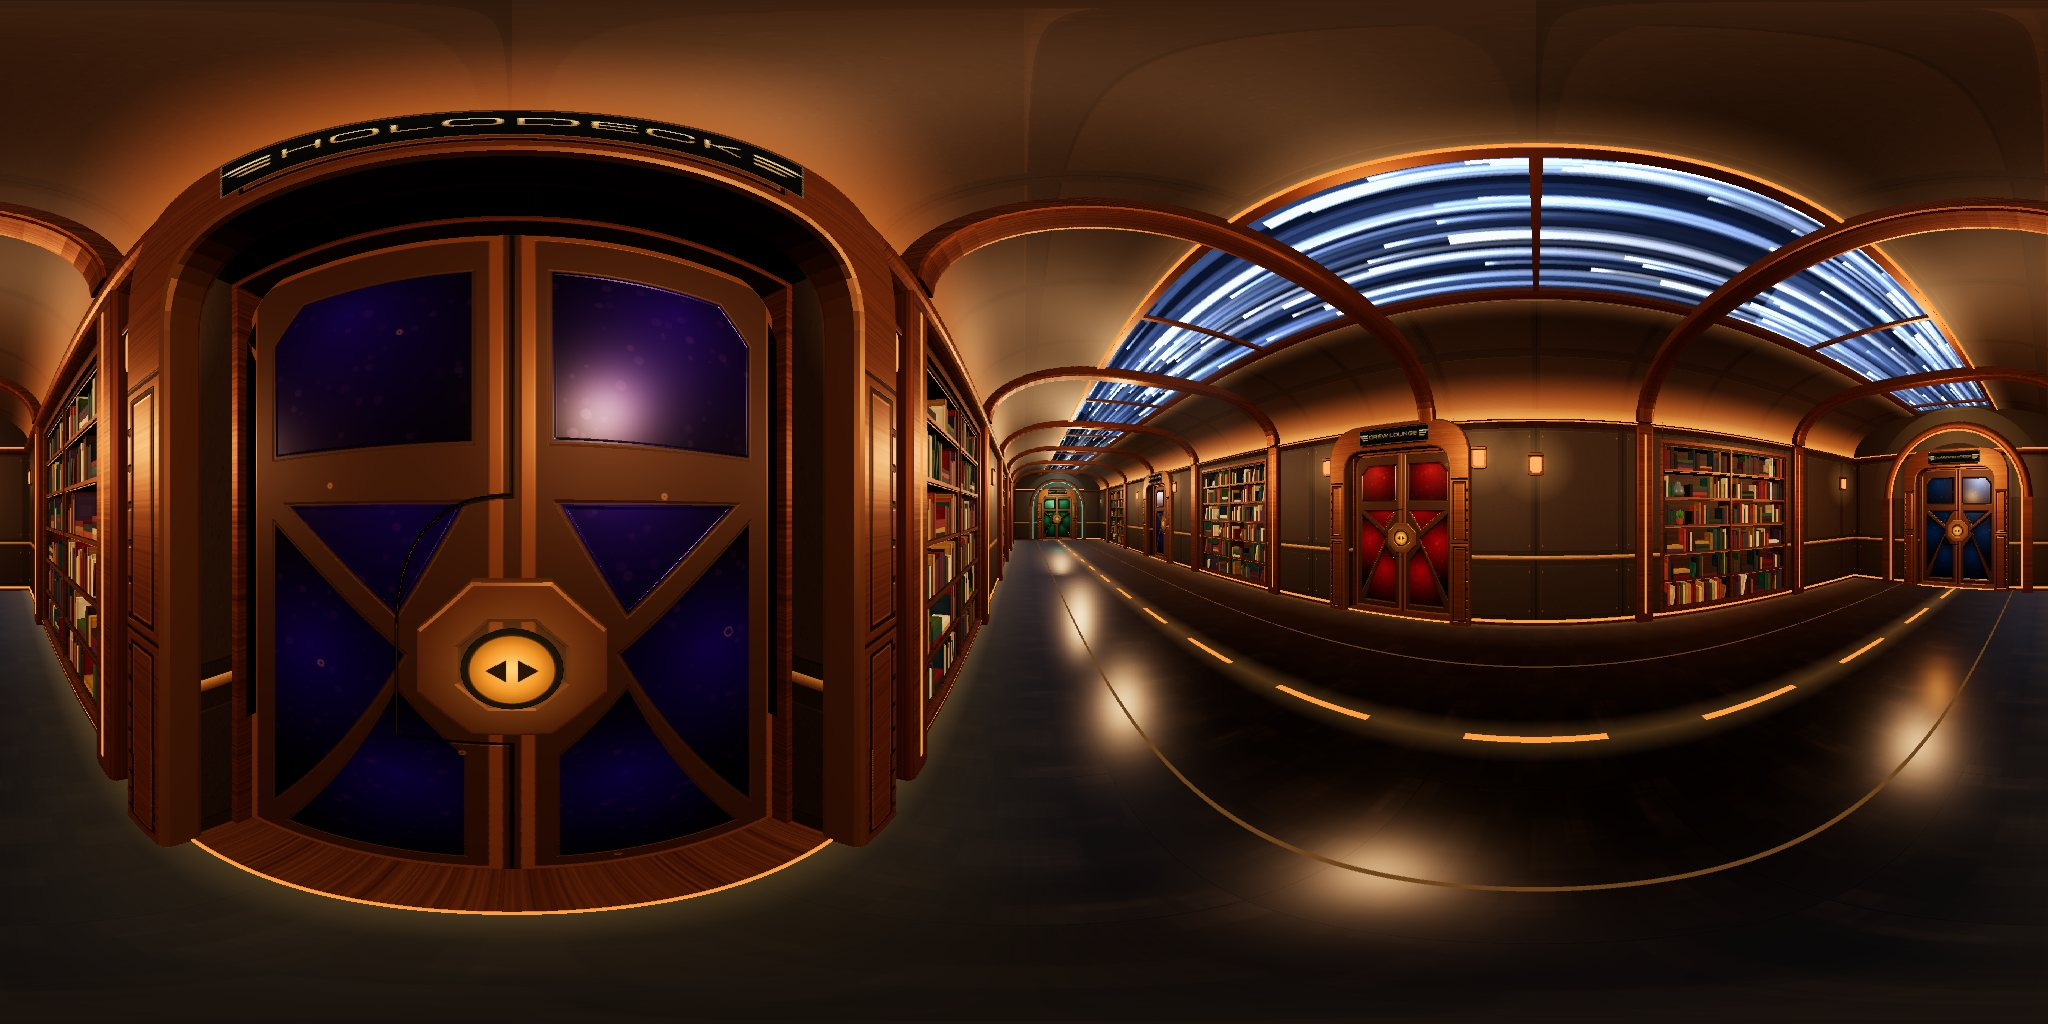
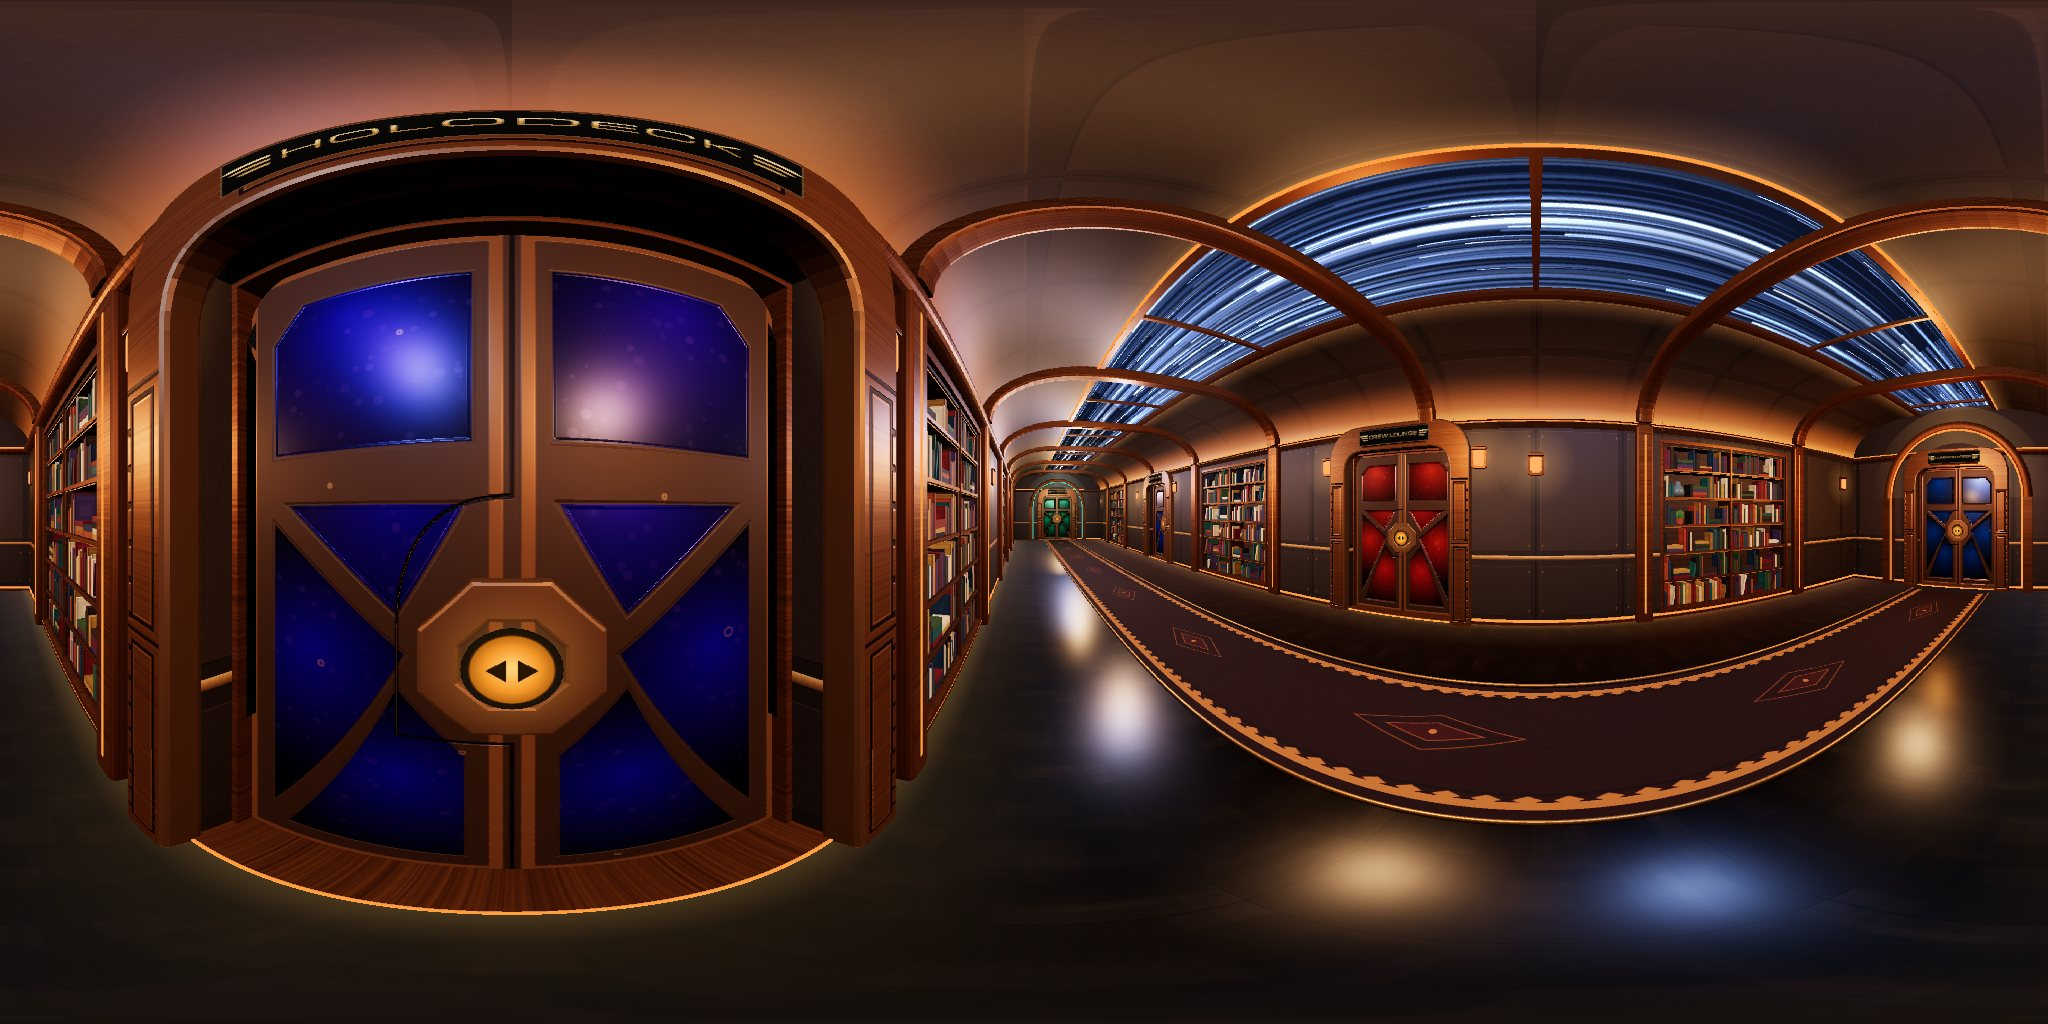
Corridor runner instead of road line; flickering blue light spill from light speed in corridor, Bridge, Library, Lounge; portals re-shot
Claude-Session: https://claude.ai/code/session_015swmRW9rk9HZt8JyLRwsXT

diff --git a/index.html b/index.html
@@ -15,11 +15,11 @@
   <meta property="og:image:height" content="630">
   <meta property="og:image:alt" content="The bronze SS Wayfarer in orbit above a sunlit planet.">
   <meta name="twitter:card" content="summary_large_image">
-  <script src="textures.js?v=20261124e"></script>
+  <script src="textures.js?v=20261124f"></script>
   <script src="https://aframe.io/releases/1.5.0/aframe.min.js"></script>
-  <script src="mobile.js?v=20261124e"></script>
-  <script src="door.js?v=20261124e"></script>
-  <script src="hyperspace.js?v=20261124e"></script>
+  <script src="mobile.js?v=20261124f"></script>
+  <script src="door.js?v=20261124f"></script>
+  <script src="hyperspace.js?v=20261124f"></script>
   <style>
     * { margin: 0; padding: 0; box-sizing: border-box; }
     body { overflow: hidden; background: #000; }
@@ -514,21 +514,28 @@
       [-9, -3, 3, 9].forEach(function (z) { var m = new THREE.Mesh(new THREE.PlaneGeometry(1.5, 3.6), sm.clone()); m.position.set(0, 1.9, z); m.rotation.x = -0.18; root.add(m); state.shafts.push(m); });
     }
 
-    // ── polished deck, dashed amber centre line, edge glow ──
+    // ── polished deck, woven runner with brass rods, edge glow ──
     function buildFloor(root, M, aniso) {
       var fm = new THREE.MeshStandardMaterial({ map: deckTexture(), roughness: 0.3, metalness: 0.55, color: 0xa89e92 });
       fm.map.repeat.set(5, 25); fm.map.anisotropy = aniso;
       var fl = new THREE.Mesh(new THREE.PlaneGeometry(5, 25), fm); fl.rotation.x = -Math.PI / 2; root.add(fl); state.floorMat = fm;
-      var dashes = new THREE.InstancedMesh(new THREE.PlaneGeometry(0.07, 0.85), M.amber, 17), dm = new THREE.Object3D(), n = 0;
-      for (var z = -12; z <= 12.01; z += 1.5) { dm.position.set(0, 0.004, z); dm.rotation.set(-Math.PI / 2, 0, 0); dm.updateMatrix(); dashes.setMatrixAt(n++, dm.matrix); }
-      dashes.count = n; root.add(dashes);
       var add = function (tex, col, op) { return new THREE.MeshBasicMaterial({ map: tex, color: col, transparent: true, opacity: op, blending: THREE.AdditiveBlending, depthWrite: false, fog: false }); };
-      var cg = new THREE.Mesh(new THREE.PlaneGeometry(0.5, 25), add(rampTexture(true), 0xff8a30, 0.28)); cg.rotation.x = -Math.PI / 2; cg.position.y = 0.003; root.add(cg);
+      // a long woven runner down the middle instead of a dashed "road" line (user, Nov 24: "why is the hallway a road")
+      var rc = cv(256, 512), rx = rc.getContext('2d'), rr2 = rng(41);
+      rx.fillStyle = '#2a0f0c'; rx.fillRect(0, 0, 256, 512);
+      for (var k = 0; k < 6000; k++) { rx.fillStyle = 'rgba(' + (rr2() < 0.5 ? '0,0,0' : '200,120,90') + ',' + (0.05 + rr2() * 0.06) + ')'; rx.fillRect(rr2() * 256, rr2() * 512, 1, 2 + rr2() * 3); }   // wool
+      rx.strokeStyle = '#b8823e'; rx.lineWidth = 10; rx.strokeRect(18, -10, 220, 540); rx.strokeStyle = '#1c0a08'; rx.lineWidth = 4; rx.strokeRect(34, -10, 188, 540);
+      rx.fillStyle = '#b8823e'; for (var y = 0; y < 512; y += 32) { rx.beginPath(); rx.moveTo(26, y + 4); rx.lineTo(32, y + 16); rx.lineTo(26, y + 28); rx.lineTo(20, y + 16); rx.fill(); rx.beginPath(); rx.moveTo(230, y + 4); rx.lineTo(236, y + 16); rx.lineTo(230, y + 28); rx.lineTo(224, y + 16); rx.fill(); }
+      rx.strokeStyle = 'rgba(190,130,62,0.6)'; rx.lineWidth = 2; rx.beginPath(); rx.moveTo(128, 150); rx.lineTo(166, 256); rx.lineTo(128, 362); rx.lineTo(90, 256); rx.closePath(); rx.stroke();      // a medallion per repeat
+      rx.beginPath(); rx.moveTo(128, 196); rx.lineTo(148, 256); rx.lineTo(128, 316); rx.lineTo(108, 256); rx.closePath(); rx.fillStyle = 'rgba(70,24,18,0.9)'; rx.fill(); rx.stroke();
+      rx.fillStyle = '#b8823e'; rx.beginPath(); rx.arc(128, 256, 5, 0, 7); rx.fill();
+      var rt = mkTex(rc); rt.repeat.set(1, 9); rt.anisotropy = aniso;
+      var runner = new THREE.Mesh(new THREE.PlaneGeometry(1.5, 24.2, 1, 24), new THREE.MeshStandardMaterial({ map: rt, roughness: 0.95, metalness: 0, color: 0xb8a8a0 }));
+      runner.rotation.x = -Math.PI / 2; runner.position.y = 0.006; root.add(runner);
+      var rodM = new THREE.MeshStandardMaterial({ color: 0xc08a48, roughness: 0.3, metalness: 0.9 });
+      [-0.78, 0.78].forEach(function (xx) { var rod = new THREE.Mesh(new THREE.CylinderGeometry(0.018, 0.018, 24.2, 8), rodM); rod.rotation.x = Math.PI / 2; rod.position.set(xx, 0.018, 0); root.add(rod); });
       var edge = rampTexture(false);
       [-1, 1].forEach(function (s) { var m = new THREE.Mesh(new THREE.PlaneGeometry(0.8, 25), add(edge, 0xff9a40, 0.32)); m.rotation.x = -Math.PI / 2; m.rotation.z = s > 0 ? Math.PI : 0; m.position.set(s * (2.5 - 0.4), 0.003, 0); root.add(m); });
-      // thin bronze inlay lines, as in the reference deck
-      var brz = new THREE.MeshBasicMaterial({ color: 0x6a4a26, fog: false });
-      [-1.2, 1.2].forEach(function (xx) { var s = new THREE.Mesh(new THREE.PlaneGeometry(0.025, 25), brz); s.rotation.x = -Math.PI / 2; s.position.set(xx, 0.004, 0); root.add(s); });
     }
 
     // ── glowing arch portals around the two end doors (amber: Bridge, teal: Library) ──
@@ -582,7 +589,8 @@
 
     // ───────────────────────────── stars (seen through the skylight) ─────────────────────────────
     // ── light speed overhead (shared hyperspace.js): the ship flies toward the Bridge (+Z), streaks rush aft ──
-    function buildSky(root) { state.hyper = window.WAYFARER.hyperspace(root, { fwd: 1, arc: [-70, 70], count: MOB ? 900 : 1500, minR: 16, maxR: 190, tunnel: 0.6, width: 0.55, bright: 0.9 }); }
+    function buildSky(root) { state.hyper = window.WAYFARER.hyperspace(root, { fwd: 1, arc: [-70, 70], count: MOB ? 900 : 1500, minR: 16, maxR: 190, tunnel: 0.6, width: 0.55, bright: 0.9,
+      spill: [{ p: [0, 3.3, -7], i: 1.6, d: 10 }, { p: [0, 3.3, 0], i: 1.6, d: 10 }, { p: [0, 3.3, 7], i: 1.6, d: 10 }] }); }   // blue glare on the deck/walls
 
     // ───────────────────────────── per-frame: door animation, collision, entry ─────────────────────────────
     var navigating = false, fade = document.getElementById('wf-fade');

diff --git a/lounge.html b/lounge.html
@@ -15,13 +15,13 @@
   <meta property="og:image:height" content="630">
   <meta property="og:image:alt" content="The bronze SS Wayfarer in orbit above a sunlit planet.">
   <meta name="twitter:card" content="summary_large_image">
-  <script src="textures.js?v=20261124e"></script>
+  <script src="textures.js?v=20261124f"></script>
   <script src="https://aframe.io/releases/1.5.0/aframe.min.js"></script>
-  <script src="mobile.js?v=20261124e"></script>
-  <script src="door.js?v=20261124e"></script>
-  <script src="props.js?v=20261124e"></script>
-  <script src="hyperspace.js?v=20261124e"></script>
-  <script src="cats.js?v=20261124e"></script>
+  <script src="mobile.js?v=20261124f"></script>
+  <script src="door.js?v=20261124f"></script>
+  <script src="props.js?v=20261124f"></script>
+  <script src="hyperspace.js?v=20261124f"></script>
+  <script src="cats.js?v=20261124f"></script>
   <style>
     * { margin: 0; padding: 0; box-sizing: border-box; }
     body { overflow: hidden; background: #000; }
@@ -161,7 +161,7 @@
     material="color: #2a6ad0; emissive: #4a8aff; emissiveIntensity: 1.6">
   </a-box>
   <a-text value="[ TAP SCREEN TO BROWSE ]" align="center" position="0 1.95 -7.51" color="#9fc4ff" width="5" letter-spacing="4"></a-text>
-  <a-light type="point" position="0 2.9 -6.4" color="#8ab4ff" intensity="1.0" distance="9" decay="2"></a-light>
+  <a-light id="win-spill" type="point" position="0 2.9 -6.4" color="#8ab4ff" intensity="1.2" distance="11" decay="1.6"></a-light>
   <!-- soft warm fill over seating + rug (independent of the TV, so a dark frame still reads) -->
   <a-light id="fill-seat" type="point" position="0 3.4 1.2" color="#ffc890" intensity="1.1" distance="11" decay="1.2"></a-light>
   <a-light id="fill-rug" type="point" position="0.5 3.2 -3.8" color="#ffc080" intensity="1.0" distance="10" decay="1.2"></a-light>
@@ -456,7 +456,7 @@
       var wr = new THREE.Mesh(new THREE.TorusGeometry(3.15, 0.14, 12, 96), bronze); wr.position.set(0, 2.6, zc + 0.05); g.add(wr);
       // light speed outside: a frame turned so the ship's forward (+X in this room) is the streams' axis
       var outside = new THREE.Group(); outside.rotation.y = Math.PI / 2; sc.object3D.add(outside);
-      var hs = window.WAYFARER.hyperspace(outside, { fwd: 1, arc: [-180, 180], count: (window.WAYFARER && window.WAYFARER.mobile) ? 900 : 1500, minR: 12, maxR: 190, tunnel: 0.6, width: 0.55, bright: 0.9, seed: 55, center: [0, 2.6] });
+      var hs = window.WAYFARER.hyperspace(outside, { fwd: 1, arc: [-180, 180], count: (window.WAYFARER && window.WAYFARER.mobile) ? 900 : 1500, minR: 12, maxR: 190, tunnel: 0.6, width: 0.55, bright: 0.9, seed: 55, center: [0, 2.6], lights: (function () { var e = document.getElementById('win-spill'), l = e && e.getObject3D('light'); return l ? [l] : []; }()) });
       AFRAME.registerComponent('wf-lounge-hyper', { tick: function (t) { hs.update(t / 1000); } });
       sc.setAttribute('wf-lounge-hyper', '');
     }

diff --git a/bridge.html b/bridge.html
@@ -16,10 +16,10 @@
   <meta property="og:image:alt" content="The bronze SS Wayfarer in orbit above a sunlit planet.">
   <meta name="twitter:card" content="summary_large_image">
   <script src="https://aframe.io/releases/1.5.0/aframe.min.js"></script>
-  <script src="mobile.js?v=20261124e"></script>
-  <script src="door.js?v=20261124e"></script>
-  <script src="hyperspace.js?v=20261124e"></script>
-  <script src="lcars.js?v=20261124e"></script>
+  <script src="mobile.js?v=20261124f"></script>
+  <script src="door.js?v=20261124f"></script>
+  <script src="hyperspace.js?v=20261124f"></script>
+  <script src="lcars.js?v=20261124f"></script>
   <style>
     * { margin: 0; padding: 0; box-sizing: border-box; }
     body { overflow: hidden; background: #000; }
@@ -220,11 +220,11 @@
       // ── lights ──
       root.add(new THREE.HemisphereLight(0xffd8b0, 0x2a1c12, 0.75));
       for (var i = 0; i < 4; i++) { var la = i / 4 * Math.PI * 2 + Math.PI / 4, l = new THREE.PointLight(0xffc08a, 1.15, 10, 1.4); l.position.copy(polar(la, 3.6, WALL_H - 0.5)); root.add(l); }
-      var win = new THREE.PointLight(0x7aa6ff, 0.9, 11, 1.5); win.position.set(0, 2.4, -6.4); root.add(win);
+      var win = new THREE.PointLight(0x7aa6ff, 1.2, 12, 1.4); win.position.set(0, 2.4, -6.4); root.add(win);
       [-1, 1].forEach(function (s) { var tl = new THREE.PointLight(0x3fd8d0, 0.6, 4.5, 2); tl.position.copy(polar(s * 0.7, 5.3, 1.3)); root.add(tl); });
 
       // light speed through the window: the ship flies bow-first (−Z here), streaks rush toward you
-      hyper = window.WAYFARER.hyperspace(root, { fwd: -1, arc: [-180, 180], count: MOB ? 1100 : 1900, core: true, seed: 101, minR: 14, center: [0, 2.3] });
+      hyper = window.WAYFARER.hyperspace(root, { fwd: -1, arc: [-180, 180], count: MOB ? 1100 : 1900, core: true, seed: 101, minR: 14, center: [0, 2.3], lights: [win], spill: [{ p: [-4.5, 2.6, -4.5], i: 0.6, d: 9 }, { p: [4.5, 2.6, -4.5], i: 0.6, d: 9 }] });
 
       bake();
     }

diff --git a/hyperspace.js b/hyperspace.js
@@ -66,9 +66,19 @@
       coreS = new THREE.Sprite(new THREE.SpriteMaterial({ map: new THREE.CanvasTexture(cc), color: 0xffffff, blending: THREE.AdditiveBlending, depthWrite: false, fog: false, toneMapped: false, transparent: true }));
       coreS.position.set(cx0, cy0, fwd * 600); coreS.scale.set(240, 240, 1); coreS.renderOrder = -8; root.add(coreS);
     }
+    // light spill: the streaks throw a cool, restless blue glow onto the room (floor gloss, walls).
+    // spill: [{ p: [x,y,z], i: intensity, d: distance }] creates point lights in (o.spillRoot || root); lights: existing ones to animate
+    var spills = [];
+    (o.spill || []).forEach(function (q) { var l = new THREE.PointLight(0x8fb2ff, q.i, q.d || 12, q.decay == null ? 1.3 : q.decay); l.position.set(q.p[0], q.p[1], q.p[2]); (o.spillRoot || root).add(l); spills.push([l, q.i]); });
+    (o.lights || []).forEach(function (l) { spills.push([l, l.intensity]); });
+    function hsh(n) { n = Math.sin(n * 91.7) * 43758.5; return n - Math.floor(n); }
     return {
-      update: function (ts) { sm.uniforms.uT.value = ts; tt.offset.y = (ts * 0.9) % 1; if (coreS) coreS.material.opacity = 0.85 + 0.15 * Math.sin(ts * 3.1); },
-      objects: [streaks, tun, haze].concat(coreS ? [coreS] : [])
+      update: function (ts) {
+        if (spills.length) { var k = Math.floor(ts * 4), f = ts * 4 - k, burst = hsh(k) * (1 - f) + hsh(k + 1) * f;   // smooth random surges as bright streaks pass
+          var m = 0.72 + 0.1 * Math.sin(ts * 7.3) + 0.06 * Math.sin(ts * 13.7 + 1.3) + 0.35 * burst * burst;
+          spills.forEach(function (e, j) { e[0].intensity = e[1] * (m + 0.05 * Math.sin(ts * 9.1 + j * 2.1)); }); }
+        sm.uniforms.uT.value = ts; tt.offset.y = (ts * 0.9) % 1; if (coreS) coreS.material.opacity = 0.85 + 0.15 * Math.sin(ts * 3.1); },
+      objects: [streaks, tun, haze].concat(coreS ? [coreS] : []), spills: spills
     };
   };
 }());

diff --git a/library.html b/library.html
@@ -18,13 +18,13 @@
   <meta name="theme-color" content="#000208">
   <meta name="apple-mobile-web-app-capable" content="yes">
   <meta name="mobile-web-app-capable" content="yes">
-  <script src="textures.js?v=20261124e"></script>
+  <script src="textures.js?v=20261124f"></script>
   <script src="https://aframe.io/releases/1.5.0/aframe.min.js"></script>
-  <script src="brain.js?v=20261124e"></script>
-  <script src="mobile.js?v=20261124e"></script>
-  <script src="door.js?v=20261124e"></script>
-  <script src="props.js?v=20261124e"></script>
-  <script src="hyperspace.js?v=20261124e"></script>
+  <script src="brain.js?v=20261124f"></script>
+  <script src="mobile.js?v=20261124f"></script>
+  <script src="door.js?v=20261124f"></script>
+  <script src="props.js?v=20261124f"></script>
+  <script src="hyperspace.js?v=20261124f"></script>
   <style>
     * { margin: 0; padding: 0; box-sizing: border-box; }
     body { overflow: hidden; background: #000; }
@@ -572,7 +572,8 @@
       const barL = new THREE.Mesh(new THREE.BoxGeometry(15.0, 0.012, 0.012), amber); barL.position.set(0, Y0 - 0.015, 0.03); root.add(barL);
 
       // light speed beyond the dome
-      const hs = window.WAYFARER.hyperspace(scene.object3D, { fwd: 1, arc: [-75, 75], count: MOB ? 900 : 1500, minR: 16, maxR: 190, tunnel: 0.6, width: 0.55, bright: 0.9, seed: 33 });
+      const hs = window.WAYFARER.hyperspace(scene.object3D, { fwd: 1, arc: [-75, 75], count: MOB ? 900 : 1500, minR: 16, maxR: 190, tunnel: 0.6, width: 0.55, bright: 0.9, seed: 33,
+        spill: [{ p: [0, 5.5, 0], i: 1.1 * Math.PI, d: 16, decay: 1.2 }] });   // the dome throws blue light on the deck and shelves
       AFRAME.registerComponent('wf-lib-hyper', { tick: function (t) { hs.update(t / 1000); } });
       scene.setAttribute('wf-lib-hyper', '');
     }

diff --git a/holodeck.html b/holodeck.html
@@ -26,12 +26,12 @@
     g.beginPath(); g.moveTo(0,0); g.lineTo(0,128); g.stroke();
     window.GRID_TEX = gc.toDataURL();
   </script>
-  <script src="textures.js?v=20261124e"></script>
+  <script src="textures.js?v=20261124f"></script>
   <script src="https://aframe.io/releases/1.5.0/aframe.min.js"></script>
-  <script src="mobile.js?v=20261124e"></script>
-  <script src="door.js?v=20261124e"></script>
-  <script src="props.js?v=20261124e"></script>
-  <script src="stargarden.js?v=20261124e"></script>
+  <script src="mobile.js?v=20261124f"></script>
+  <script src="door.js?v=20261124f"></script>
+  <script src="props.js?v=20261124f"></script>
+  <script src="stargarden.js?v=20261124f"></script>
   <style>
     * { margin:0; padding:0; box-sizing:border-box; }
     body { overflow:hidden; background:#000; }

diff --git a/media.html b/media.html
@@ -16,9 +16,9 @@
   <meta property="og:image:alt" content="The bronze SS Wayfarer in orbit above a sunlit planet.">
   <meta name="twitter:card" content="summary_large_image">
   <script src="https://aframe.io/releases/1.5.0/aframe.min.js"></script>
-  <script src="mobile.js?v=20261124e"></script>
-  <script src="door.js?v=20261124e"></script>
-  <script src="props.js?v=20261124e"></script>
+  <script src="mobile.js?v=20261124f"></script>
+  <script src="door.js?v=20261124f"></script>
+  <script src="props.js?v=20261124f"></script>
   <style>
     * { margin: 0; padding: 0; box-sizing: border-box; }
     body { overflow: hidden; background: #000; }

diff --git a/hangar.html b/hangar.html
@@ -9,7 +9,7 @@
   <link rel="icon" href="/aspentrail/icons/favicon.ico">
   <script src="https://cdnjs.cloudflare.com/ajax/libs/three.js/r128/three.min.js"></script>
   <script src="https://cdn.jsdelivr.net/npm/three@0.128.0/examples/js/loaders/GLTFLoader.js"></script>
-  <script src="shipskin.js?v=20261124e"></script>
+  <script src="shipskin.js?v=20261124f"></script>
   <script src="https://cdn.jsdelivr.net/npm/three@0.128.0/examples/js/controls/OrbitControls.js"></script>
   <style>
     * { margin: 0; padding: 0; box-sizing: border-box; }

diff --git a/minigame.html b/minigame.html
@@ -17,7 +17,7 @@
   <meta name="twitter:card" content="summary_large_image">
   <script src="https://cdnjs.cloudflare.com/ajax/libs/three.js/r128/three.min.js"></script>
   <script src="https://cdn.jsdelivr.net/npm/three@0.128.0/examples/js/loaders/GLTFLoader.js"></script>
-  <script src="shipskin.js?v=20261124e"></script>
+  <script src="shipskin.js?v=20261124f"></script>
   <style>
     * { margin: 0; padding: 0; box-sizing: border-box; }
     body { overflow: hidden; background: #000; font-family: 'Courier New', monospace; }

diff --git a/CLAUDE.md b/CLAUDE.md
@@ -56,7 +56,7 @@ Rules drawn from them:
 - A-Frame 1.5.0 from the aframe.io CDN, no build step, plain HTML/JS
 - GitHub Pages deploys from branch `claude/hello-mssbj4` (site: spawnshark.github.io/aspentrail).
   Session work happens on a `claude/...` branch; it is live only after it reaches `claude/hello-mssbj4`.
-- Local scripts are loaded with `?v=<date+letter>` (Safari cached old door.js/mobile.js) — bump it in every page on each push (now 20261124e).
+- Local scripts are loaded with `?v=<date+letter>` (Safari cached old door.js/mobile.js) — bump it in every page on each push (now 20261124f).
 - Shared scripts: `textures.js` (procedural textures), `mobile.js` (touch controls: ONE frosted-glass bottom bar —
   iOS glassmorphism, Safari-bar proportions, white YouTube-style line icons; movement pad left, look stick right, Gyro +
   Level in the middle; gyro off by default and the Gyro tap calls DeviceOrientationEvent.requestPermission so only
@@ -105,7 +105,9 @@ Rules drawn from them:
   consoles with teal screens (heads glance between screens). Exit = shared door at +Z (now has a wall behind it).
 - **Light speed is shared code: `hyperspace.js`** (`WAYFARER.hyperspace(root, {fwd, arc, minR, center, core})`).
   Corridor: fwd +1, arc ±70°, minR 16, tunnel 0.6, width 0.55. Bridge: fwd −1, full circle, minR 14, core glow.
-  Library dome: fwd +1 (its door faces the bow), arc ±75°, same settings as the corridor. Streaks are DoubleSide
+  Library dome: fwd +1 (its door faces the bow), arc ±75°, same settings as the corridor. LIGHT SPILL (user, Nov 24): `spill: [{p,i,d}]` / `lights: [existing]`
+  options flicker cool-blue point lights with passing streaks (corridor ×3 under the skylight, Bridge window + 2, Library dome,
+  Lounge window light). Streaks are DoubleSide
   billboards (seen from below they face away — that once hid them entirely in the corridor). Streak heads are soft round
   caps and widths are capped; the backdrop tunnel texture uses thin soft-sided streaks (wide hard rects showed as flickering
   blocks through the skylight on iPhone — user video Nov 24).
@@ -146,7 +148,10 @@ Rules drawn from them:
   metallic → set metalness ≈0.45, tint 0xe8a878; DON'T give it a PMREM env map on r128 (renders pure black).
 - **Ship View** (`hangar.html`, three r128 + GLTFLoader + OrbitControls) — the high-detail ship in space by the terracotta
   planet; drag to orbit, pinch zoom, glass bar: Turntable / Top / Rear / Hero. Linked from Flight Mode's title screen.
-- **Library** (`library.html`) — pearly veined brain in a cabled electrogel tank, copper room, dome, scroll
+- **Library** (`library.html`) — brain (Nov 24 v2, user): realistic pink-beige tissue with dark-red blood vessels, NO turning:
+  a lub-dub heartbeat swells it and flushes the vessels; electrical discharges every 2.5–7.5 s (tube bolts drawn over the folds,
+  spark sprite, flash light); rising bubbles look like real bubbles (rim + glint, vent streams, wobble; renderOrder −2 and the
+  glass floor has depthWrite off, or they vanish behind it). Cabled electrogel tank, copper room, dome, scroll
   reader. Scrolls hold placeholder text, not the user's Obsidian notes yet.
 - **Crew Lounge** (`lounge.html`) — curved leather sofa, brass table, woven rug, rigged alien cats on a shared
   60 s stretch cycle, browser TV, bookshelf, sideboard, painting, plants, plaques. SHELL restyled Nov 24 (`buildShell`):
